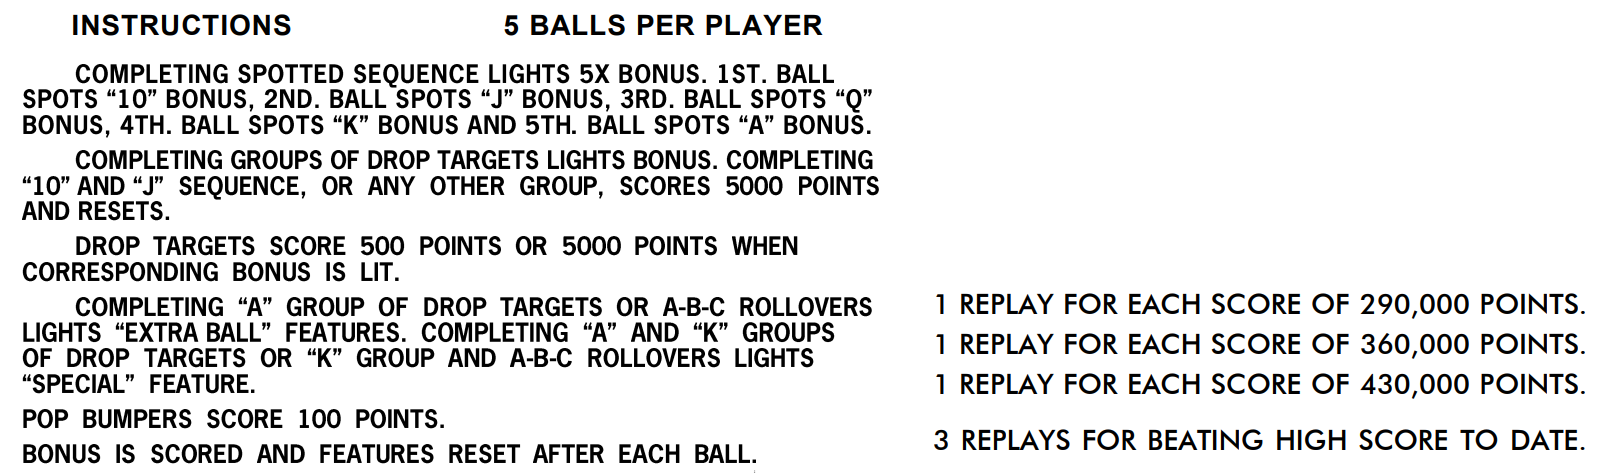
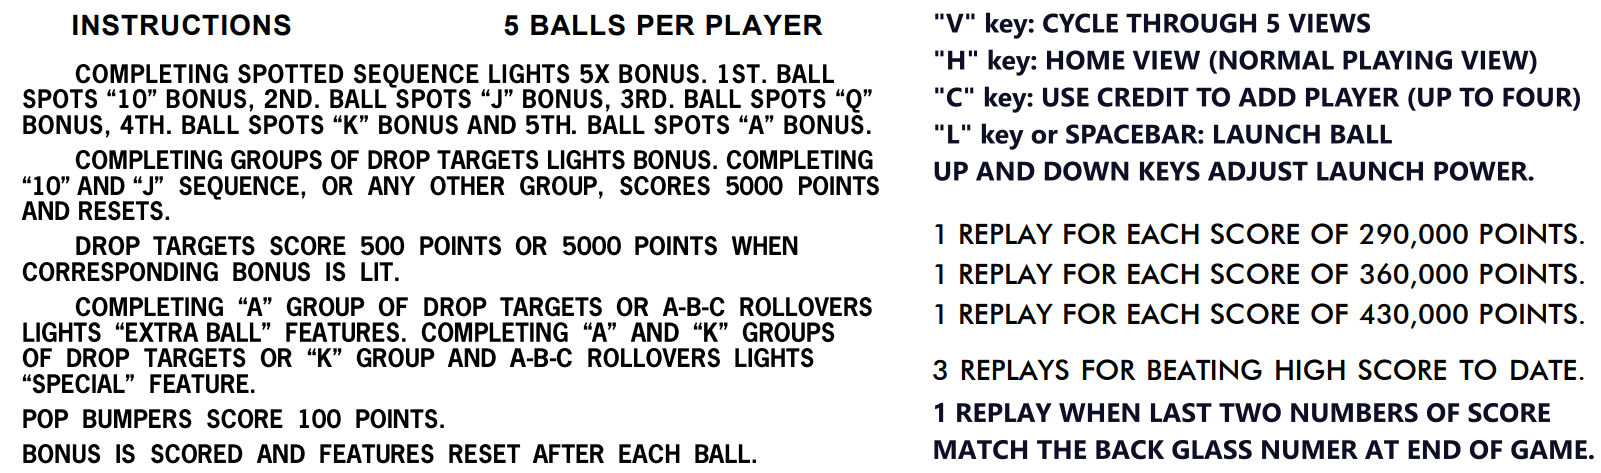
Complete the rules and help

diff --git a/exampleb/toy.cpp b/exampleb/toy.cpp
@@ -427,17 +427,17 @@ bool Toy::button(int code, bool shifted, bool on)
             if (on) {
                 m_gauge->decrement();
             }
-//            ret_val = false;
+            ret_val = false;
             break;
         case SDL_SCANCODE_DOWN:
             if (on) {
                 m_gauge->increment();
             }
-//            ret_val = false;
+            ret_val = false;
             break;
         case SDL_SCANCODE_LEFT:
         case SDL_SCANCODE_RIGHT:
-//            ret_val = false;
+            ret_val = false;
             break;
         default:
             break;
